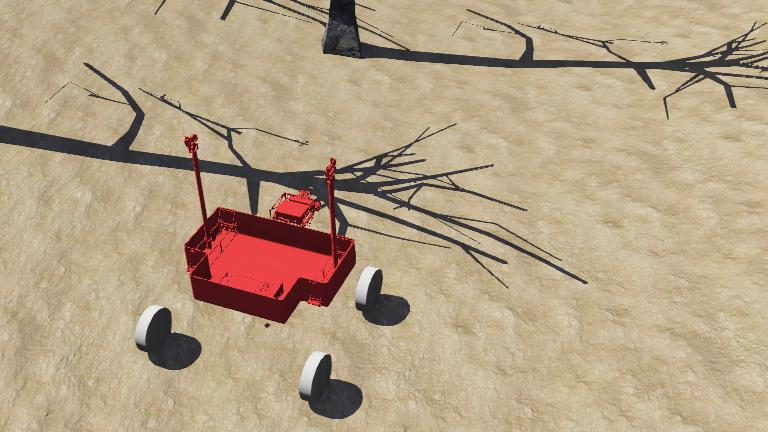
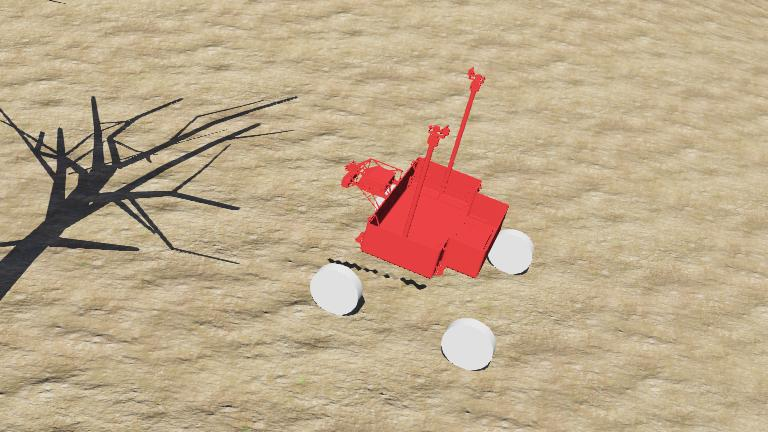
Add C++ Rover Controller

diff --git a/webots_sim/controllers/RobotController/RobotController.cpp b/webots_sim/controllers/RobotController/RobotController.cpp
@@ -1,0 +1,61 @@
+// File:          RobotController.cpp
+// Date: 2024-0308
+// Description: Interfaces between the Robot in the SIM and the external Autonomy_Software code.
+// Author: Clayton Cowen (clayjay3@github, claytonraycowen@gmail.com)
+// Modifications:
+
+#include <webots/Robot.hpp>
+#include <webots/Motor.hpp>
+
+#define TIME_STEP_MS 64
+///////////////////////////////////////////////////////////////////////////////////////
+
+// This is the main program of your controller.
+// It creates an instance of your Robot instance, launches its
+// function(s) and destroys it at the end of the execution.
+// Note that only one instance of Robot should be created in
+// a controller program.
+// The arguments of the main function can be specified by the
+// "controllerArgs" field of the Robot node
+int main(int argc, char **argv) {
+  // create the Robot instance.
+  webots::Robot *pRobot = new webots::Robot();
+  
+  // Get motor references.
+  webots::Motor* pFrontLeftMotor = pRobot->getMotor("motor1");
+  webots::Motor* pFrontRightMotor = pRobot->getMotor("motor2");
+  webots::Motor* pBackLeftMotor = pRobot->getMotor("motor3");
+  webots::Motor* pBackRightMotor = pRobot->getMotor("motor4");
+  // Disable PID controllers on motors.
+  pFrontLeftMotor->setPosition(INFINITY);
+  pFrontRightMotor->setPosition(INFINITY);
+  pBackLeftMotor->setPosition(INFINITY);
+  pBackRightMotor->setPosition(INFINITY);
+  // Set initial speed to zero.
+  pFrontLeftMotor->setVelocity(0);
+  pFrontRightMotor->setVelocity(0);
+  pBackLeftMotor->setVelocity(0);
+  pBackRightMotor->setVelocity(0);
+
+  // Main loop:
+  // - perform simulation steps until Webots is stopping the controller
+  while (pRobot->step(TIME_STEP_MS) != -1) {
+      // Read the sensors:
+      // Enter here functions to read sensor data, like:
+      //  double val = ds->getValue();
+  
+      // Process sensor data here.
+  
+      // Enter here functions to send actuator commands, like:
+      pFrontLeftMotor->setVelocity(10.0);
+      pFrontRightMotor->setVelocity(10.0);
+      pBackLeftMotor->setVelocity(10.0);
+      pBackRightMotor->setVelocity(10.0);
+  };
+
+  // Cleanup code.
+  delete pRobot;
+  
+  // Exit.
+  return 0;
+}
